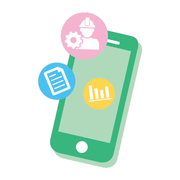
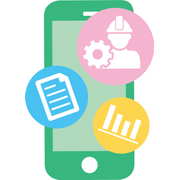
アイコンをアプリと同じ（余白を切った絵）にし、全ページで同じアイコンの指定に

diff --git a/blog/nippou-app-erabikata.html b/blog/nippou-app-erabikata.html
@@ -6,8 +6,6 @@
 <title>建設業の作業日報アプリの選び方｜比較サイトが書かない5つの評価軸と、商談で聞くべき12の質問｜レポスル</title>
 <meta name="description" content="比較サイトがほぼ触れない5つの評価軸（集計の自動化・人工の粒度・会社間連携・属人化解消・現場定着）と、商談でそのまま使える12の質問を解説します。">
 <link rel="canonical" href="https://lp.reposul.com/blog/nippou-app-erabikata.html">
-<link rel="icon" type="image/png" href="../favicon.png">
-<link rel="apple-touch-icon" href="../apple-touch-icon.png">
 <meta name="theme-color" content="#123324">
 <meta property="og:type" content="article">
 <meta property="og:title" content="建設業の作業日報アプリの選び方｜比較サイトが書かない5つの評価軸と、商談で聞くべき12の質問">
@@ -132,6 +130,9 @@ footer a:hover{color:#fff;}
   gtag('js', new Date());
   gtag('config', 'AW-16769513601');
 </script>
+<link rel="icon" href="../favicon.ico" sizes="48x48">
+<link rel="icon" type="image/png" href="../favicon.png" sizes="512x512">
+<link rel="apple-touch-icon" href="../apple-touch-icon.png">
 </head>
 <body>
 

diff --git a/blog/cost-keisan.html b/blog/cost-keisan.html
@@ -6,8 +6,6 @@
 <title>日報の電子化で、実際いくら浮くのか｜自社で計算するための式と、見落とされる3つのコスト｜レポスル</title>
 <meta name="description" content="日報にかかる見えるコストと見えないコストを整理し、自社で削減額を計算するための式、見落とされがちな3つのコスト、投資回収の判断式を試算例つきで解説します。">
 <link rel="canonical" href="https://lp.reposul.com/blog/cost-keisan.html">
-<link rel="icon" type="image/png" href="../favicon.png">
-<link rel="apple-touch-icon" href="../apple-touch-icon.png">
 <meta name="theme-color" content="#123324">
 <meta property="og:type" content="article">
 <meta property="og:title" content="日報の電子化で、実際いくら浮くのか｜自社で計算するための式と、見落とされる3つのコスト">
@@ -137,6 +135,9 @@ footer a:hover{color:#fff;}
   gtag('js', new Date());
   gtag('config', 'AW-16769513601');
 </script>
+<link rel="icon" href="../favicon.ico" sizes="48x48">
+<link rel="icon" type="image/png" href="../favicon.png" sizes="512x512">
+<link rel="apple-touch-icon" href="../apple-touch-icon.png">
 </head>
 <body>
 

diff --git a/blog/teichaku.html b/blog/teichaku.html
@@ -6,8 +6,6 @@
 <title>職人がスマホ入力を嫌がる会社の共通点｜日報アプリが定着しない5つの原因と、その直し方｜レポスル</title>
 <meta name="description" content="日報アプリが定着しない原因は年齢ではありません。定着しない5つの原因と、現場のメリットから始める導入手順、期限つき代行入力という現実的な妥協案を解説します。">
 <link rel="canonical" href="https://lp.reposul.com/blog/teichaku.html">
-<link rel="icon" type="image/png" href="../favicon.png">
-<link rel="apple-touch-icon" href="../apple-touch-icon.png">
 <meta name="theme-color" content="#123324">
 <meta property="og:type" content="article">
 <meta property="og:title" content="職人がスマホ入力を嫌がる会社の共通点｜日報アプリが定着しない5つの原因と、その直し方">
@@ -133,6 +131,9 @@ footer a:hover{color:#fff;}
   gtag('js', new Date());
   gtag('config', 'AW-16769513601');
 </script>
+<link rel="icon" href="../favicon.ico" sizes="48x48">
+<link rel="icon" type="image/png" href="../favicon.png" sizes="512x512">
+<link rel="apple-touch-icon" href="../apple-touch-icon.png">
 </head>
 <body>
 

diff --git a/blog/sagyouin-haichi.html b/blog/sagyouin-haichi.html
@@ -6,8 +6,6 @@
 <title>作業員の配置管理｜誰がどう決めているかが、1人の頭の中にある問題｜レポスル</title>
 <meta name="description" content="作業員の配置が属人化するのは、判断の材料が記録されていないから。配置を決める人が見ている5つの情報のうち記録できる3つと、記録しないほうがいいもの、日報から材料を作る3ステップを解説します。">
 <link rel="canonical" href="https://lp.reposul.com/blog/sagyouin-haichi.html">
-<link rel="icon" type="image/png" href="../favicon.png">
-<link rel="apple-touch-icon" href="../apple-touch-icon.png">
 <meta name="theme-color" content="#123324">
 <meta property="og:type" content="article">
 <meta property="og:title" content="作業員の配置管理｜誰がどう決めているかが、1人の頭の中にある問題">
@@ -135,6 +133,9 @@ footer a:hover{color:#fff;}
   gtag('js', new Date());
   gtag('config', 'AW-16769513601');
 </script>
+<link rel="icon" href="../favicon.ico" sizes="48x48">
+<link rel="icon" type="image/png" href="../favicon.png" sizes="512x512">
+<link rel="apple-touch-icon" href="../apple-touch-icon.png">
 </head>
 <body>
 

diff --git a/blog/nippou-hokan.html b/blog/nippou-hokan.html
@@ -6,8 +6,6 @@
 <title>建設業の日報は、いつまで保管すべきか｜法定帳簿ではないが、捨てられない理由｜レポスル</title>
 <meta name="description" content="日報そのものに保存期間の規定はありませんが、請求・賃金・原価・事故対応の根拠資料として機能しています。保管の目安と、電子化・廃棄ルールの考え方を解説します。">
 <link rel="canonical" href="https://lp.reposul.com/blog/nippou-hokan.html">
-<link rel="icon" type="image/png" href="../favicon.png">
-<link rel="apple-touch-icon" href="../apple-touch-icon.png">
 <meta name="theme-color" content="#123324">
 <meta property="og:type" content="article">
 <meta property="og:title" content="建設業の日報は、いつまで保管すべきか｜法定帳簿ではないが、捨てられない理由">
@@ -132,6 +130,9 @@ footer a:hover{color:#fff;}
   gtag('js', new Date());
   gtag('config', 'AW-16769513601');
 </script>
+<link rel="icon" href="../favicon.ico" sizes="48x48">
+<link rel="icon" type="image/png" href="../favicon.png" sizes="512x512">
+<link rel="apple-touch-icon" href="../apple-touch-icon.png">
 </head>
 <body>
 

diff --git a/blog/template-gyoushu.html b/blog/template-gyoushu.html
@@ -6,8 +6,6 @@
 <title>建設業の日報テンプレートを業種別に考える｜とび・電気・設備で、何が変わるか｜レポスル</title>
 <meta name="description" content="日報の骨格は業種共通。変わるのは位置の表し方・数量の単位・法令や品質に関わる記録項目の3つだけ。業種別の項目と、複数業種を持つ会社の様式設計を解説します。">
 <link rel="canonical" href="https://lp.reposul.com/blog/template-gyoushu.html">
-<link rel="icon" type="image/png" href="../favicon.png">
-<link rel="apple-touch-icon" href="../apple-touch-icon.png">
 <meta name="theme-color" content="#123324">
 <meta property="og:type" content="article">
 <meta property="og:title" content="建設業の日報テンプレートを業種別に考える｜とび・電気・設備で、何が変わるか">
@@ -135,6 +133,9 @@ footer a:hover{color:#fff;}
   gtag('js', new Date());
   gtag('config', 'AW-16769513601');
 </script>
+<link rel="icon" href="../favicon.ico" sizes="48x48">
+<link rel="icon" type="image/png" href="../favicon.png" sizes="512x512">
+<link rel="apple-touch-icon" href="../apple-touch-icon.png">
 </head>
 <body>
 

diff --git a/home.html b/home.html
@@ -7,8 +7,6 @@
 <title>レポスル日報｜建設業向け 日報・工数管理【シン・レポスル】</title>
 <meta name="description" content="現場はLINE、事務所はブラウザ。予定表から日報をワンプッシュ、集計・請求書・作業員名簿までひとつに。建設業向け日報・工数管理「レポスル日報」（シン・レポスル）。デモはログイン不要です。">
 <link rel="canonical" href="https://lp.reposul.com/home.html">
-<link rel="icon" type="image/png" href="favicon.png">
-<link rel="apple-touch-icon" href="apple-touch-icon.png">
 <meta name="theme-color" content="#123324">
 <meta property="og:type" content="website">
 <meta property="og:title" content="レポスル日報｜建設業向け 日報・工数管理【シン・レポスル】">
@@ -556,6 +554,9 @@ footer a:hover{color:#fff;}
   gtag('js', new Date());
   gtag('config', 'AW-16769513601');
 </script>
+<link rel="icon" href="favicon.ico" sizes="48x48">
+<link rel="icon" type="image/png" href="favicon.png" sizes="512x512">
+<link rel="apple-touch-icon" href="apple-touch-icon.png">
 </head>
 <body>
 <div class="scroll-progress" id="scrollProgress"></div>

diff --git a/blog/hitori-oyakata.html b/blog/hitori-oyakata.html
@@ -6,8 +6,6 @@
 <title>一人親方の工数管理は、3つ記録すれば足りる｜請求と確定申告を守る最低限の記録｜レポスル</title>
 <meta name="description" content="一人親方が記録すべきは日付・元請け・人工の3つだけ。記録の役割、取引先の数で選ぶ記録方法、インボイスや元請け指定システムへの向き合い方を解説します。">
 <link rel="canonical" href="https://lp.reposul.com/blog/hitori-oyakata.html">
-<link rel="icon" type="image/png" href="../favicon.png">
-<link rel="apple-touch-icon" href="../apple-touch-icon.png">
 <meta name="theme-color" content="#123324">
 <meta property="og:type" content="article">
 <meta property="og:title" content="一人親方の工数管理は、3つ記録すれば足りる｜請求と確定申告を守る最低限の記録">
@@ -136,6 +134,9 @@ footer a:hover{color:#fff;}
   gtag('js', new Date());
   gtag('config', 'AW-16769513601');
 </script>
+<link rel="icon" href="../favicon.ico" sizes="48x48">
+<link rel="icon" type="image/png" href="../favicon.png" sizes="512x512">
+<link rel="apple-touch-icon" href="../apple-touch-icon.png">
 </head>
 <body>
 

diff --git a/blog/login-teichaku.html b/blog/login-teichaku.html
@@ -6,8 +6,6 @@
 <title>現場アプリのログインが続かない理由｜パスワードで脱落する人をなくす｜レポスル</title>
 <meta name="description" content="アプリが定着しない原因の多くは、使い始める前のログイン画面にあります。ログインの失敗が報告されない理由、共有アカウントが記録を壊す理由、方式ごとの弱点を整理します。">
 <link rel="canonical" href="https://lp.reposul.com/blog/login-teichaku.html">
-<link rel="icon" type="image/png" href="../favicon.png">
-<link rel="apple-touch-icon" href="../apple-touch-icon.png">
 <meta name="theme-color" content="#123324">
 <meta property="og:type" content="article">
 <meta property="og:title" content="現場アプリのログインが続かない理由｜パスワードで脱落する人をなくす">
@@ -135,6 +133,9 @@ footer a:hover{color:#fff;}
   gtag('js', new Date());
   gtag('config', 'AW-16769513601');
 </script>
+<link rel="icon" href="../favicon.ico" sizes="48x48">
+<link rel="icon" type="image/png" href="../favicon.png" sizes="512x512">
+<link rel="apple-touch-icon" href="../apple-touch-icon.png">
 </head>
 <body>
 

diff --git a/blog/genka-kosu-chigai.html b/blog/genka-kosu-chigai.html
@@ -6,8 +6,6 @@
 <title>建設業の原価管理と工数管理の違い｜工数を取っているのに、利益が分からない理由｜レポスル</title>
 <meta name="description" content="工数管理と原価管理の違いを整理し、工数を取っているのに利益が分からない3つの理由と、工数管理から原価管理へつなげる実務の順序を解説します。">
 <link rel="canonical" href="https://lp.reposul.com/blog/genka-kosu-chigai.html">
-<link rel="icon" type="image/png" href="../favicon.png">
-<link rel="apple-touch-icon" href="../apple-touch-icon.png">
 <meta name="theme-color" content="#123324">
 <meta property="og:type" content="article">
 <meta property="og:title" content="建設業の原価管理と工数管理の違い｜工数を取っているのに、利益が分からない理由">
@@ -135,6 +133,9 @@ footer a:hover{color:#fff;}
   gtag('js', new Date());
   gtag('config', 'AW-16769513601');
 </script>
+<link rel="icon" href="../favicon.ico" sizes="48x48">
+<link rel="icon" type="image/png" href="../favicon.png" sizes="512x512">
+<link rel="apple-touch-icon" href="../apple-touch-icon.png">
 </head>
 <body>
 

diff --git a/blog/nippou-ai.html b/blog/nippou-ai.html
@@ -6,8 +6,6 @@
 <title>「AIで日報を分析」の前に必要なこと｜工数データが貯まると、何ができるようになるか｜レポスル</title>
 <meta name="description" content="使えるデータの4条件、AIで実際にできる5つのこと、期待しすぎてはいけない4つの限界、外部AIにデータを渡すときの注意を、誇張せずに整理します。">
 <link rel="canonical" href="https://lp.reposul.com/blog/nippou-ai.html">
-<link rel="icon" type="image/png" href="../favicon.png">
-<link rel="apple-touch-icon" href="../apple-touch-icon.png">
 <meta name="theme-color" content="#123324">
 <meta property="og:type" content="article">
 <meta property="og:title" content="「AIで日報を分析」の前に必要なこと｜工数データが貯まると、何ができるようになるか">
@@ -133,6 +131,9 @@ footer a:hover{color:#fff;}
   gtag('js', new Date());
   gtag('config', 'AW-16769513601');
 </script>
+<link rel="icon" href="../favicon.ico" sizes="48x48">
+<link rel="icon" type="image/png" href="../favicon.png" sizes="512x512">
+<link rel="apple-touch-icon" href="../apple-touch-icon.png">
 </head>
 <body>
 

diff --git a/blog/sharyou-kanri.html b/blog/sharyou-kanri.html
@@ -6,8 +6,6 @@
 <title>作業車・社用車の管理｜台帳と鍵と日報が、バラバラになっている｜レポスル</title>
 <meta name="description" content="作業車の管理が難しいのは台数が多いからではなく、台帳・鍵・利用記録が3か所に分かれ照合できないから。日報に車両欄を足すだけの対策と、車両費を現場別に割る考え方を解説します。">
 <link rel="canonical" href="https://lp.reposul.com/blog/sharyou-kanri.html">
-<link rel="icon" type="image/png" href="../favicon.png">
-<link rel="apple-touch-icon" href="../apple-touch-icon.png">
 <meta name="theme-color" content="#123324">
 <meta property="og:type" content="article">
 <meta property="og:title" content="作業車・社用車の管理｜台帳と鍵と日報が、バラバラになっている">
@@ -135,6 +133,9 @@ footer a:hover{color:#fff;}
   gtag('js', new Date());
   gtag('config', 'AW-16769513601');
 </script>
+<link rel="icon" href="../favicon.ico" sizes="48x48">
+<link rel="icon" type="image/png" href="../favicon.png" sizes="512x512">
+<link rel="apple-touch-icon" href="../apple-touch-icon.png">
 </head>
 <body>
 
